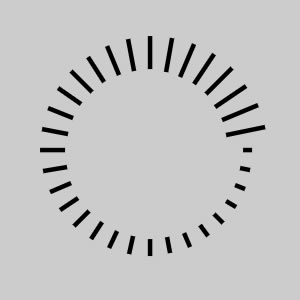
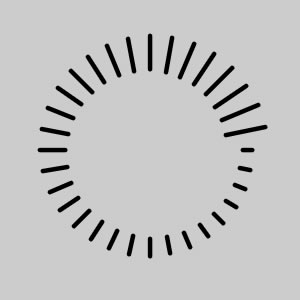
Documentation improvement

diff --git a/app/src/main/java/com/sccomponents/widgets/demo/MainActivity.java b/app/src/main/java/com/sccomponents/widgets/demo/MainActivity.java
@@ -16,15 +16,15 @@ public class MainActivity extends AppCompatActivity {
 
         final ScNotchs notchs = (ScNotchs) this.findViewById(R.id.notchs);
         assert notchs != null;
+        notchs.getPainter().setStrokeCap(Paint.Cap.ROUND);
         notchs.setOnDrawListener(new ScNotchs.OnDrawListener() {
             @Override
             public void onDrawNotch(ScNotchs.NotchInfo info) {
-                // Adjust the distance from border
-                float multiplier = (notchs.getWidth() / 2) / notchs.getNotchs();
-                info.distanceFromBorder = (notchs.getNotchs() - info.index) * multiplier;
-
-                // Adjust the dimension
-                info.length = 1 + info.index / 5;
+                // Calculate a custom angle
+                info.angle = info.angle * 2 - 180;
+                // Distance and length
+                info.distanceFromBorder = info.index * 4;
+                info.length = notchs.getNotchs() - info.index;
             }
         });
 

diff --git a/ScNotchs.md b/ScNotchs.md
@@ -80,7 +80,7 @@ Take a look to the [ScArc](ScArc) class documentation
         android:background="#cccccc"
         android:padding="10dp"
         sc:scc_angle_start="-90"
-        sc:scc_notchs="16"/>
+        sc:scc_notchs="16" />
 ```
 
 <br />
@@ -154,7 +154,7 @@ Take a look to the [ScArc](ScArc) class documentation
         });
 ```
 
-### Notchs position
+### Notchs position and rounded stroke
 
 <img align="right" src="https://github.com/Paroca72/sc-widgets/blob/master/raw/scnotchs/4.jpg"> 
 ```xml
@@ -176,12 +176,50 @@ Take a look to the [ScArc](ScArc) class documentation
 ```java
         final ScNotchs notchs = (ScNotchs) this.findViewById(R.id.notchs);
         assert notchs != null;
+        notchs.getPainter().setStrokeCap(Paint.Cap.ROUND);
         notchs.setOnDrawListener(new ScNotchs.OnDrawListener() {
             @Override
             public void onDrawNotch(ScNotchs.NotchInfo info) {
                 // Adjust the length and the position
                 info.length += info.index;
                 info.distanceFromBorder = -info.length / 2;
+            }
+        });
+```
+
+
+### Spiral increasing angles
+
+<img align="right" src="https://github.com/Paroca72/sc-widgets/blob/master/raw/scnotchs/5.jpg"> 
+```xml
+    <com.sccomponents.widgets.ScNotchs
+        xmlns:sc="http://schemas.android.com/apk/res-auto"
+        android:id="@+id/notchs"
+        android:layout_width="200dp"
+        android:layout_height="200dp"
+        android:background="#cccccc"
+        android:padding="10dp"
+        sc:scc_angle_sweep="270"
+        sc:scc_notchs="32" />
+```
+
+<br />
+<br />
+<br />
+<br />
+
+```java
+        final ScNotchs notchs = (ScNotchs) this.findViewById(R.id.notchs);
+        assert notchs != null;
+        notchs.getPainter().setStrokeCap(Paint.Cap.ROUND);
+        notchs.setOnDrawListener(new ScNotchs.OnDrawListener() {
+            @Override
+            public void onDrawNotch(ScNotchs.NotchInfo info) {
+                // Calculate a custom angle
+                info.angle = info.angle * 2 - 180;
+                // Distance and length
+                info.distanceFromBorder = info.index * 4;
+                info.length = notchs.getNotchs() - info.index;
             }
         });
 ```
